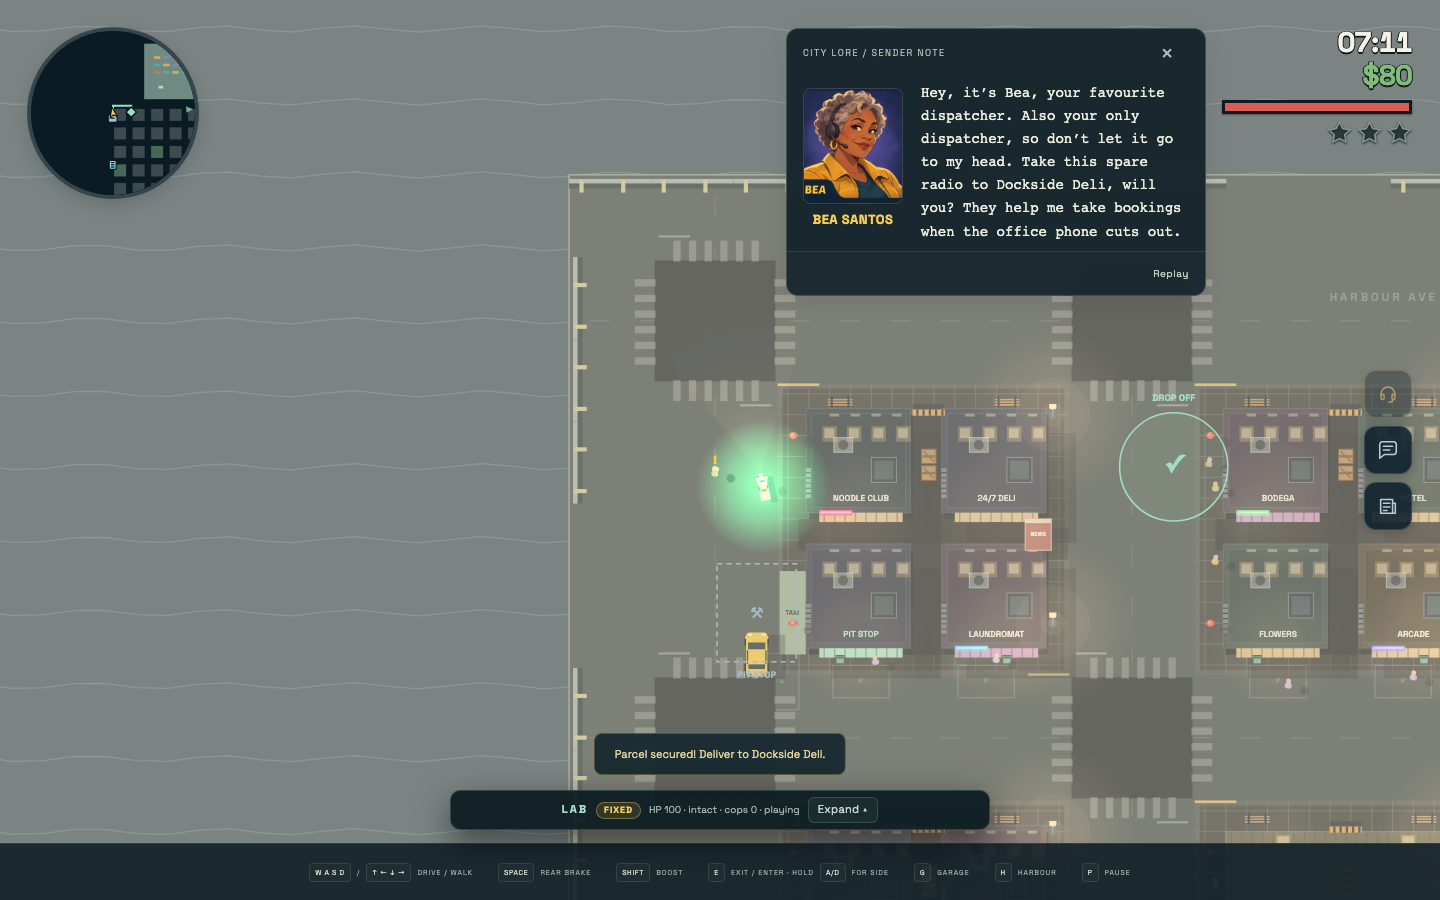
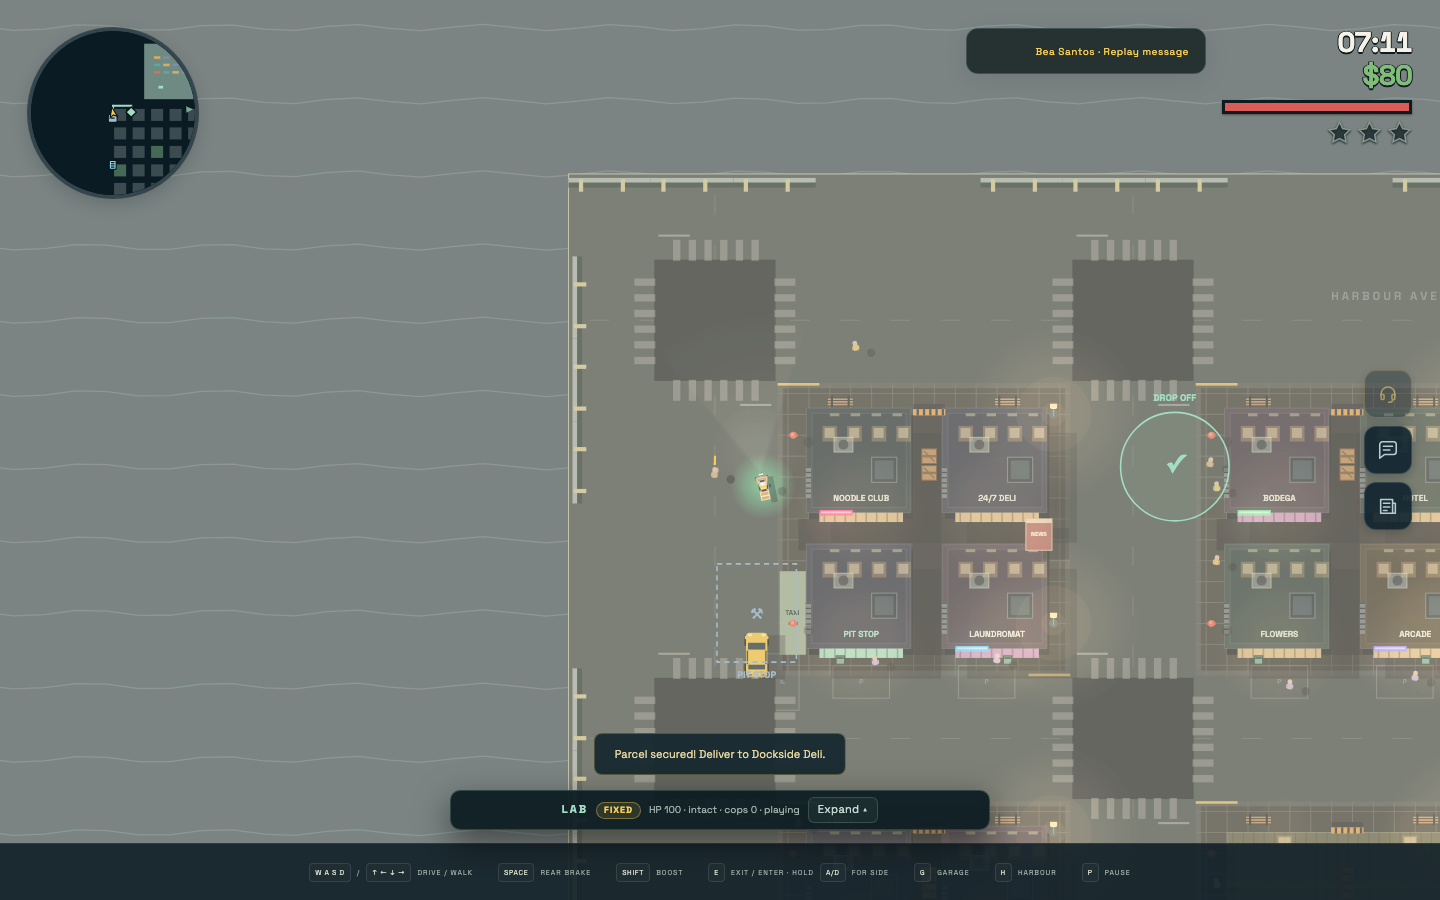
Confine cab glow to roof and render compact bike underglow below sprites

diff --git a/src/lighting.ts b/src/lighting.ts
@@ -50,6 +50,8 @@ export type LightSource = {
   spread?: number;
   /** Radial core fraction (0 = soft centre, 0.4 = flatter pool). */
   inner?: number;
+  /** Paint coloured spill before raised sprites, not over them in the final lighting pass. */
+  groundOnly?: boolean;
   /**
    * Opt this light into building occlusion. Cones are always occluded (they read as street-level
    * beams); radial lamps leave this off so storefront/awning spill stays soft.
@@ -502,6 +504,23 @@ export class LightingLayer {
     }
   }
 
+  /** Ground-level coloured spill. Call after terrain/marks and before people or vehicles. */
+  renderGroundGlow(ctx: CanvasRenderingContext2D, opts: LightingRenderOptions): void {
+    const lights = opts.lights.filter(light => light.groundOnly);
+    if (!lights.length || !this.ensure(opts.width, opts.height)) return;
+    const glow = this.glowCtx!, params = ambientPass(opts.state);
+    glow.setTransform(1, 0, 0, 1, 0, 0);
+    glow.globalCompositeOperation = 'source-over';
+    glow.clearRect(0, 0, this.maskWidth, this.maskHeight);
+    glow.globalAlpha = 1;
+    for (const light of lights) this.drawLight(glow, light, params, 'glow', opts);
+    ctx.save();
+    ctx.setTransform(opts.dpr, 0, 0, opts.dpr, 0, 0);
+    ctx.globalCompositeOperation = 'lighter'; ctx.globalAlpha = 1;
+    ctx.drawImage(this.glow!, 0, 0, this.maskWidth, this.maskHeight, 0, 0, opts.width, opts.height);
+    ctx.restore();
+  }
+
   render(ctx: CanvasRenderingContext2D, opts: LightingRenderOptions): void {
     if (!this.ensure(opts.width, opts.height)) return;
     const params = ambientPass(opts.state);
@@ -544,7 +563,8 @@ export class LightingLayer {
     glow.globalCompositeOperation = 'source-over';
     glow.clearRect(0, 0, this.maskWidth, this.maskHeight);
     glow.globalAlpha = 1;
-    for (const light of opts.lights) this.drawLight(glow, light, params, 'glow', opts);
+    // Ground lights still open the ambient mask, but must not bleach raised sprite colours.
+    for (const light of opts.lights) if (!light.groundOnly) this.drawLight(glow, light, params, 'glow', opts);
 
     // 4. Composite mask (darken) then glow (lighten) back onto the scene at full resolution.
     ctx.globalCompositeOperation = 'source-over';

diff --git a/src/onboard-cue.test.ts b/src/onboard-cue.test.ts
@@ -13,25 +13,26 @@ function takeBike() {
 }
 
 describe('on-board world cue', () => {
-  it('uses a broad saturated green light like the police aura, even in daylight', () => {
+  it('confines the cab glow to its roof instead of spilling across the street', () => {
     const g = new Game(undefined, false);
     expect(onBoardLight(g, g.player)).toBeNull();
     g.job.stage = 'dropoff';
     const light = onBoardLight(g, g.player, true)!;
-    expect(light).toMatchObject({ cue: 'roof', radius: 7.5, color: [74, 255, 132], intensity: 0.9 });
+    expect(light).toMatchObject({ cue: 'roof', radius: 1.4, color: [74, 255, 132], intensity: 0.6, groundOnly: false });
+    expect(light.radius * 2).toBeLessThan(g.player.body.w);
     expect(light.artificial).toBeUndefined(); // no dusk/dawn dimming
     expect(light.profile).toBeUndefined(); // shared soft radial sprite, no ring or cone
     expect({ x: light.x, y: light.y }).toEqual(g.player.body.toWorld({ x: -0.1, y: 0 }));
     g.time += 1;
     expect(onBoardLight(g, g.player, true)).toEqual(light); // reduced motion: steady light
-    expect(onBoardLight(g, g.player)!.intensity).toBeGreaterThan(0.8);
+    expect(onBoardLight(g, g.player)!.intensity).toBeGreaterThan(0.5);
     g.newJob(false);
     expect(onBoardLight(g, g.player)).toBeNull();
   });
 
-  it('lights the bike body with a broad soft glow and no leftover light when abandoned', () => {
+  it('gives the bike a compact dimmer ground glow and no leftover light when abandoned', () => {
     const g = takeBike(); g.job.stage = 'dropoff';
-    expect(onBoardLight(g, g.player, true)).toMatchObject({ cue: 'body', ...g.player.body.position, radius: 6.5, intensity: 0.9 });
+    expect(onBoardLight(g, g.player, true)).toMatchObject({ cue: 'body', ...g.player.body.position, radius: 3.2, intensity: 0.6, groundOnly: true });
     g.onFoot = true;
     expect(onBoardLight(g, g.player)).toBeNull();
     g.onFoot = false; g.player.alive = false;

diff --git a/src/lighting.test.ts b/src/lighting.test.ts
@@ -221,6 +221,35 @@ describe('LightingLayer', () => {
     expect(main.calls.drawImage).toBeGreaterThanOrEqual(2);
   });
 
+  it('paints underglow only on the ground layer, while still opening the final ambient mask', () => {
+    const contexts: ReturnType<typeof mockCtx>[] = [];
+    const subject = new LightingLayer(0.5, (width, height) => {
+      const rec = mockCtx(); contexts.push(rec);
+      return { width, height, getContext: () => rec.ctx } as unknown as HTMLCanvasElement;
+    });
+    const ground: LightSource = { x: 100, y: 100, radius: 3.2, color: [74, 255, 132], intensity: 0.6, groundOnly: true };
+    const roof: LightSource = { ...ground, groundOnly: false, color: [255, 74, 74] };
+    const main = mockCtx(), options = opts([ground, roof]);
+    subject.renderGroundGlow(main.ctx, options);
+    expect(main.calls.drawImage).toBe(1);
+    const [mask, glow] = contexts;
+    expect(mask.calls.drawImage ?? 0).toBe(0);
+    expect(glow.calls.drawImage).toBe(1); // ground-only, not the police/roof light
+    const groundSprite = glow.args.drawImage[0][0];
+    subject.render(main.ctx, options);
+    expect(mask.calls.drawImage).toBe(2); // both sources keep the night mask readable
+    expect(glow.calls.drawImage).toBe(2); // only the roof light in the final overlay
+    expect(glow.args.drawImage[1][0]).not.toBe(groundSprite);
+  });
+
+  it('skips the ground pass when no underglow is active', () => {
+    const main = mockCtx(), subject = layer();
+    subject.renderGroundGlow(main.ctx, opts([]));
+    subject.renderGroundGlow(main.ctx, opts([{ x: 0, y: 0, radius: 7.5, color: [74, 255, 132], intensity: 0.9 }]));
+    expect(main.calls.drawImage ?? 0).toBe(0);
+    expect(subject.spriteCount).toBe(0);
+  });
+
   it('reuses cached sprites across frames and only grows for new colours', () => {
     const subject = layer();
     const main = mockCtx();

diff --git a/src/renderer.ts b/src/renderer.ts
@@ -102,6 +102,14 @@ export class Renderer {
       c.beginPath(); for (const s of batch) { c.moveTo(s.a.x, s.a.y); c.lineTo(s.b.x, s.b.y); } c.stroke();
     }
     c.globalAlpha = 1;
+    const groundAura = onBoardLight(g, g.player, this.reducedMotion);
+    if (groundAura?.groundOnly && this.visible(g.player.body.position)) {
+      // Ground spill precedes every raised sprite: the bike, rider and parcel retain their colours.
+      this.lightLayer.renderGroundGlow(c, {
+        width: this.width, height: this.height, dpr: this.dpr, state: lighting, lights: [groundAura],
+        zoom: this.zoom, project: point => this.screen(point),
+      });
+    }
     for (const prop of g.world.props) if (this.visible(prop.body.position, Math.max(prop.body.w, prop.body.h))) this.prop(prop);
     this.campaignFrontages();
     for (const person of g.world.people) if (this.visible(person.position, 2)) {
@@ -238,8 +246,7 @@ export class Renderer {
       vehicles: g.vehicles, props: g.world.props, blasts: g.fx.blasts,
     };
     const viewport = this.worldViewport();
-    // Use exactly the police-light compositor: a saturated core spilling softly onto the road,
-    // visible in daylight too, rather than an outlined circle over the vehicle.
+    // Reuse the soft-light compositor, with a roof-sized cab glow or compact bike underglow.
     const aura = onBoardLight(g, g.player, this.reducedMotion);
     const sources = collectLights(scene);
     if (aura) sources.push(aura);

diff --git a/src/onboard-cue.ts b/src/onboard-cue.ts
@@ -16,13 +16,14 @@ export function onBoardCue(g: Game, v: Vehicle): OnBoardCue | null {
   return v.model === 'motorcycle' ? 'body' : 'roof';
 }
 
-/** Police-style light spill, not a drawn ring: the shared compositor supplies the soft falloff. */
+/** Soft local light: roof-sized on a cab, or a small ground pool under a bike. */
 export function onBoardLight(g: Game, v: Vehicle, reducedMotion = false): (LightSource & { cue: OnBoardCue }) | null {
   const cue = onBoardCue(g, v);
   if (!cue || !v.alive) return null;
   const origin = v.body.toWorld({ x: cue === 'roof' ? -0.1 : 0, y: 0 });
   return {
-    cue, x: origin.x, y: origin.y, radius: cue === 'roof' ? 7.5 : 6.5,
-    color: [74, 255, 132], intensity: reducedMotion ? 0.9 : 0.9 + Math.sin(g.time * 2.6) * 0.07,
+    cue, x: origin.x, y: origin.y, radius: cue === 'roof' ? 1.4 : 3.2,
+    groundOnly: cue === 'body',
+    color: [74, 255, 132], intensity: 0.6 + (reducedMotion ? 0 : Math.sin(g.time * 2.6) * 0.07),
   };
 }

diff --git a/HOW_TO.md b/HOW_TO.md
@@ -67,8 +67,8 @@ Destinations use one distinctive symbol each: a ringed circle for a pickup, a
 diamond for a delivery, and drawn garage, newsroom, harbour and container
 markers. A chevron on the rim points along the destination bearing, whether the
 destination still sits on the wheel or beyond it. Once a passenger or parcel is
-aboard, the cab's roof sign (or the courier bike's body) emits a bright green
-light with the same soft spill as police lights, not an outlined circle. The
+aboard, a soft green light stays within the cab roof's footprint, or lights a
+small patch of ground underneath the courier bike without tinting its artwork. The
 wheel itself stays free of cargo badges. While walking, parked
 rides, the garage and the newsroom stay marked and no permanent instruction bar
 covers the map.
